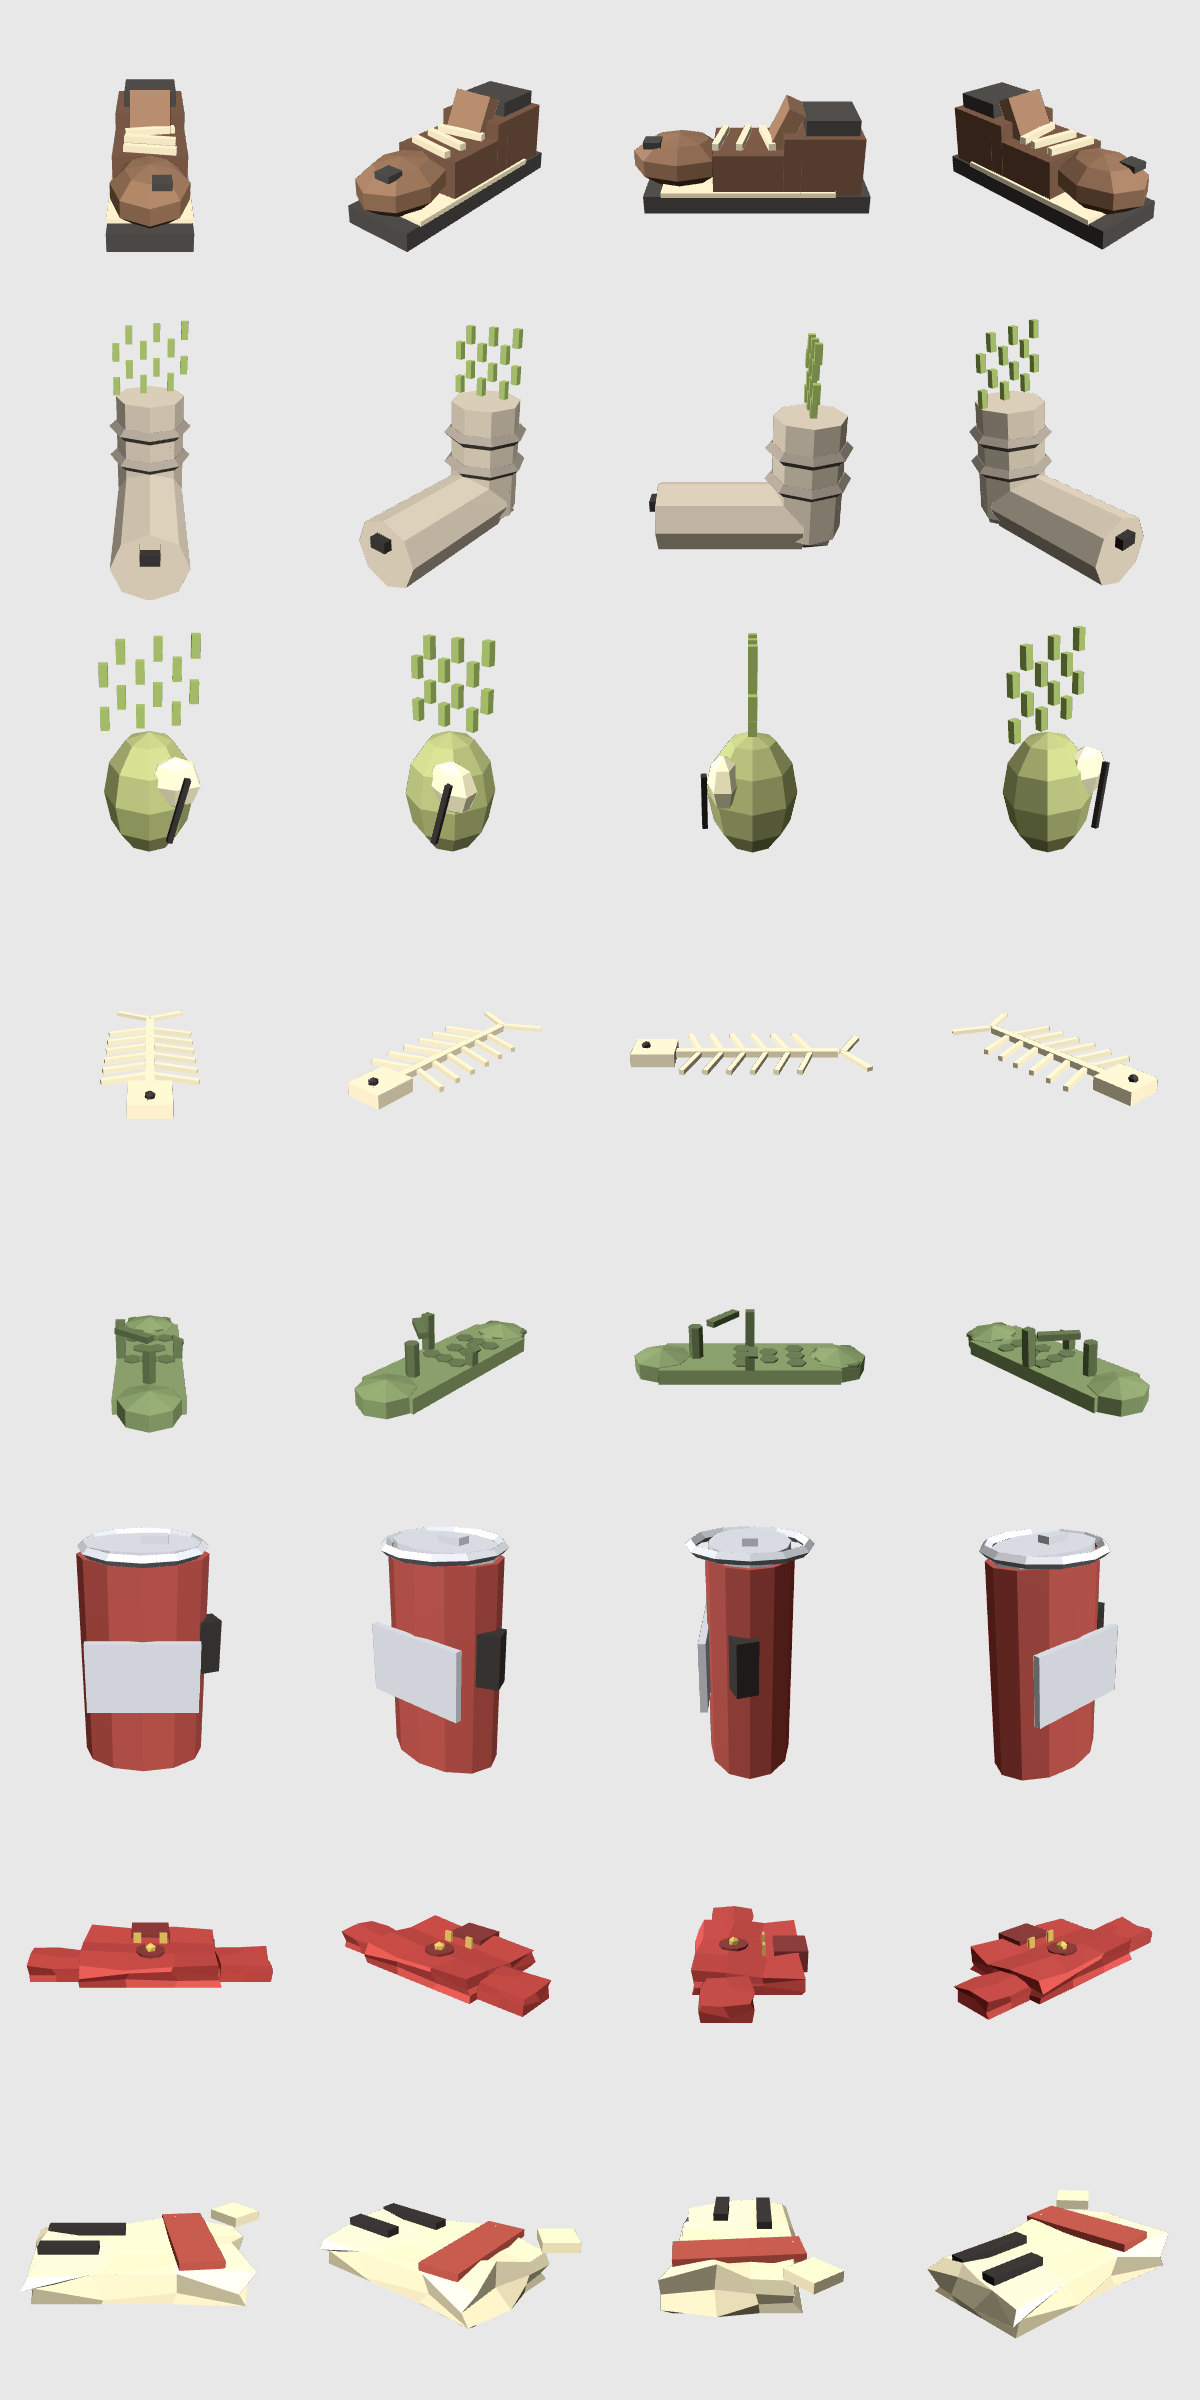
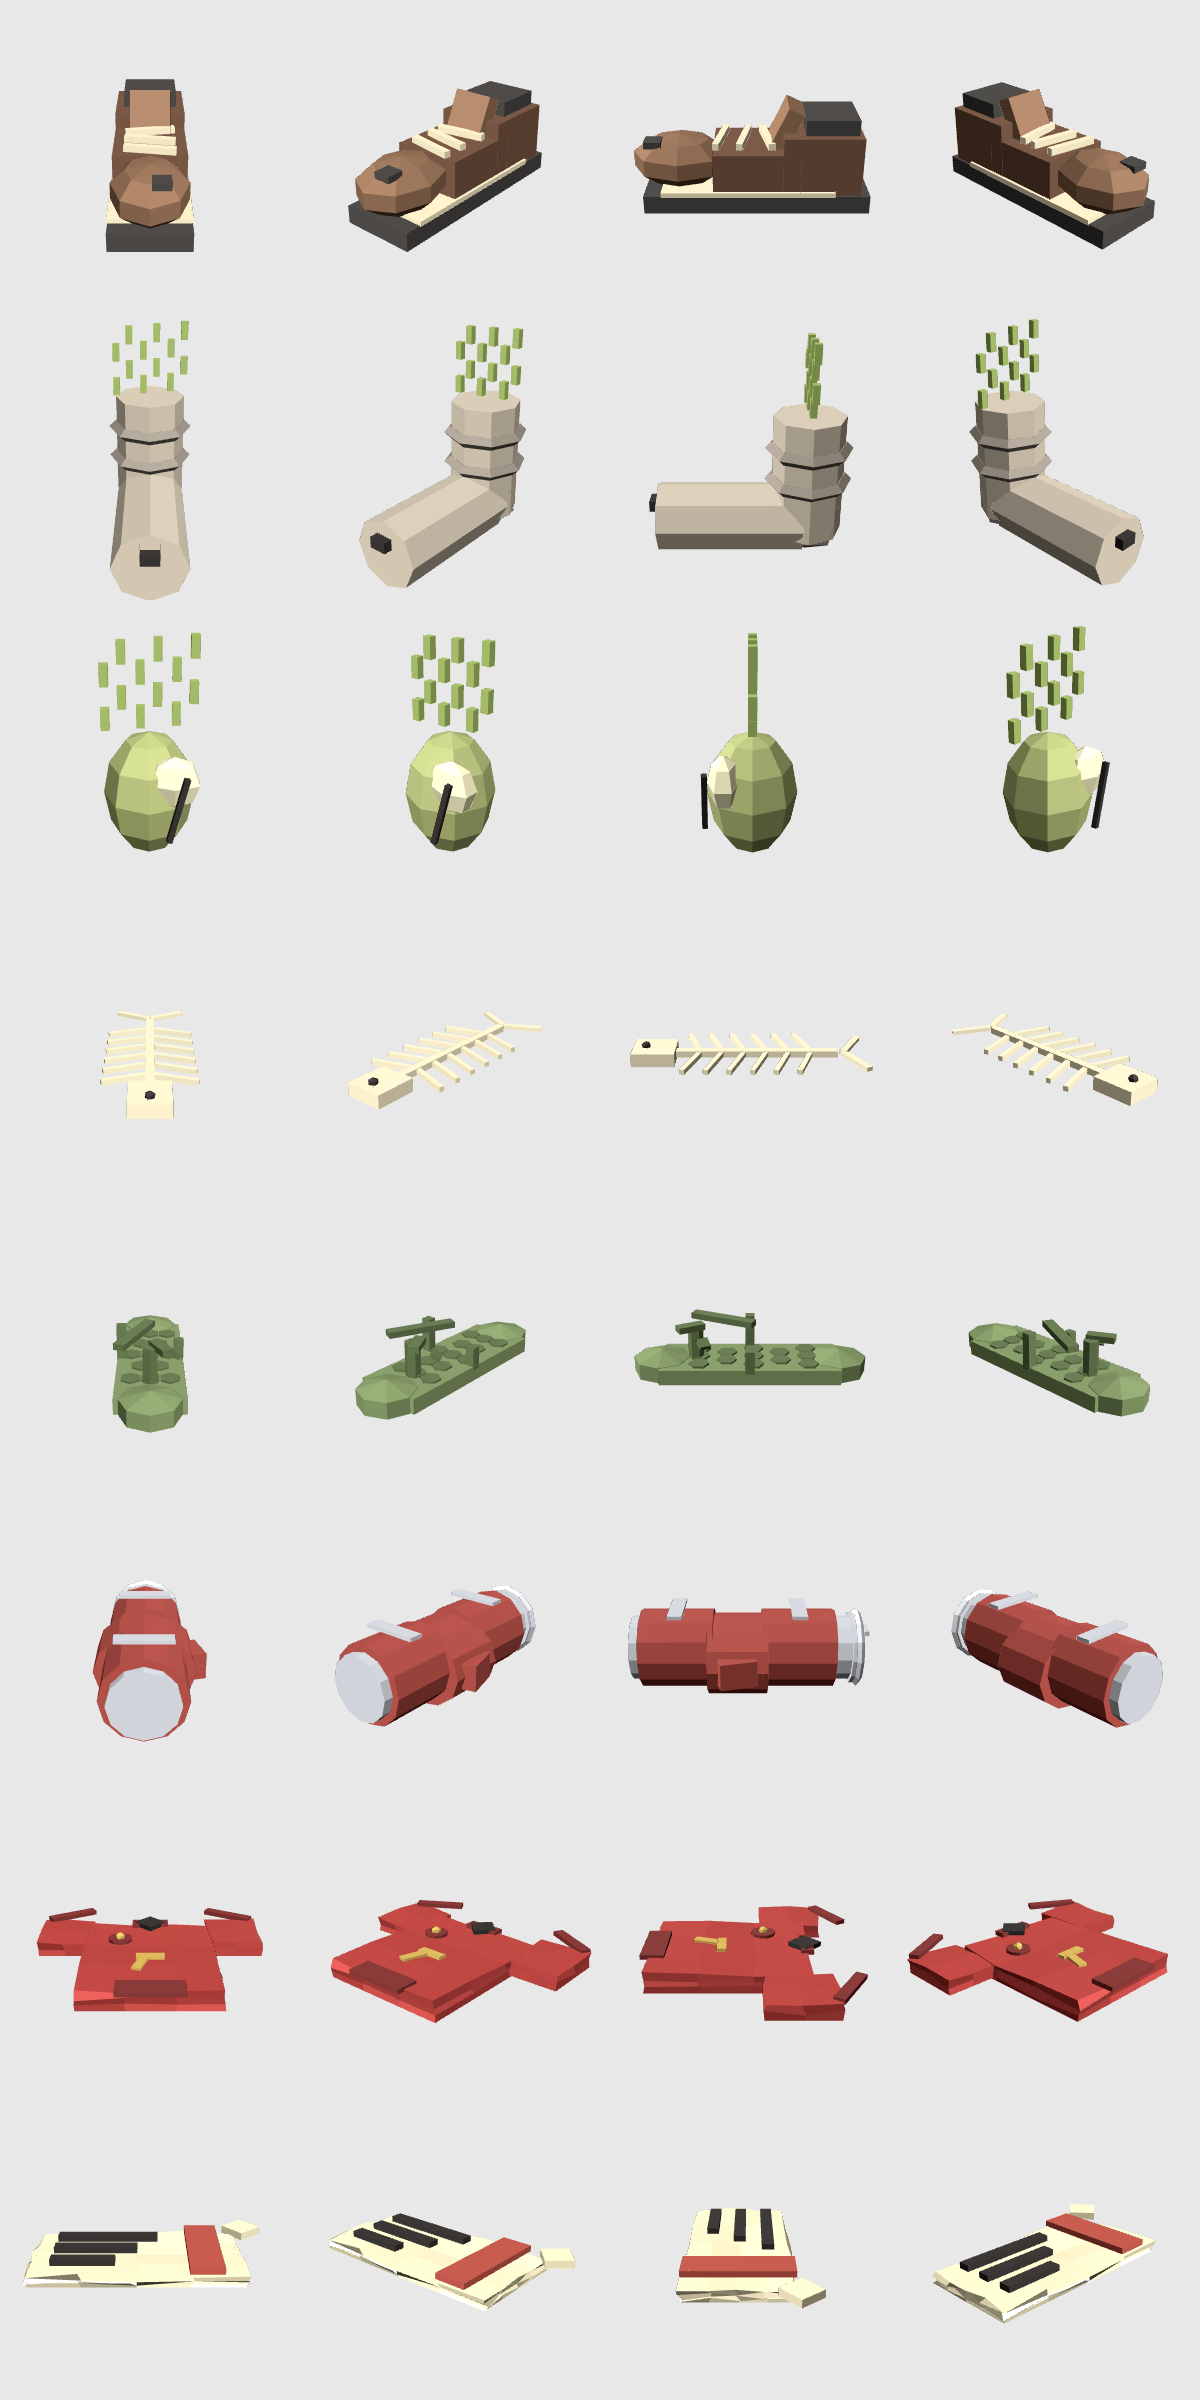
art: make the junk items easier to recognise (can, shirt, ticket, sandal)
Claude-Session: https://claude.ai/code/session_01QKQCdZrLAmYuhynD5rorbZ

diff --git a/Tools/Blender/make_items_lowpoly.py b/Tools/Blender/make_items_lowpoly.py
@@ -187,53 +187,62 @@ def build_r04():   # xương cá
     return p
 
 
-def build_r05():   # dép tổ ong cụt quai
+def build_r05():   # dép tổ ong cụt quai: green rubber sandal, V-shaped thong with one strap snapped
     p = [box((0.085, 0.23, 0.02), (0, 0.0, 0.01), "rubber"),
          uvs(0.0425, (0, -0.115, 0.01), "rubber", seg=8, rings=3, scale=(1, 1, 0.5)),
          uvs(0.0425, (0, 0.115, 0.01), "rubber", seg=8, rings=3, scale=(1, 1, 0.5)),
-         cyl(0.009, 0.045, (0, -0.07, 0.04), "rubber_dk", verts=6),                              # toe post
-         box((0.012, 0.012, 0.05), (-0.037, 0.0, 0.045), "rubber_dk"),                           # left strap post
-         box((0.052, 0.012, 0.008), (-0.019, -0.035, 0.066), "rubber_dk", rot=(0, 0, D(-38))),   # left strap
-         box((0.012, 0.012, 0.02), (0.037, 0.0, 0.03), "rubber_dk"),                             # right strap: snapped stub
-         box((0.016, 0.012, 0.004), (0.037, 0.004, 0.042), "rubber_dk", rot=(0, D(25), 0))]
-    for r, y in enumerate((-0.07, -0.035, 0.0, 0.035, 0.07)):                                      # honeycomb dents
-        for x in ((-0.022, 0.0, 0.022) if r % 2 == 0 else (-0.011, 0.011)):
-            p.append(cyl(0.012, 0.004, (x, y + 0.06, 0.02), "rubber_dk", verts=6))
+         cyl(0.01, 0.05, (0, -0.07, 0.04), "rubber_dk", verts=6),                                  # toe post
+         box((0.012, 0.012, 0.05), (-0.037, 0.0, 0.04), "rubber_dk"),                              # left strap anchor
+         box((0.012, 0.012, 0.03), (0.037, 0.0, 0.03), "rubber_dk"),                               # right strap anchor
+         box((0.014, 0.088, 0.008), (-0.0185, -0.035, 0.066), "rubber_dk", rot=(0, 0, D(-25))),    # left strap, intact
+         box((0.014, 0.035, 0.008), (0.012, -0.075, 0.066), "rubber_dk", rot=(0, 0, D(28))),       # right strap, snapped short
+         box((0.014, 0.014, 0.006), (0.027, -0.058, 0.05), "rubber_dk", rot=(0, D(30), D(28)))]   # torn tail
+    for r, y in enumerate((-0.075, -0.04, -0.005, 0.03, 0.065, 0.1)):                              # honeycomb dents
+        for x in ((-0.024, 0.0, 0.024) if r % 2 == 0 else (-0.012, 0.012)):
+            p.append(cyl(0.013, 0.005, (x, y + 0.01, 0.02), "rubber_dk", verts=6))
+    return p
+
+def build_r06():   # lon nước ngọt bẹp: a can lying on its side with a crushed middle
+    p = [cyl(0.033, 0.06, (0, -0.05, 0.035), "can_red", verts=12, rot=(R90, 0, 0)),                      # intact bottom half
+         cyl(0.033, 0.07, (0, 0.0, 0.03), "can_red", verts=12, rot=(R90, 0, 0), scale=(1.25, 1, 0.7)),     # crushed middle (overlaps both halves)
+         cyl(0.033, 0.06, (0, 0.05, 0.035), "can_red", verts=12, rot=(R90, 0, 0)),                        # top half
+         cyl(0.027, 0.012, (0, 0.087, 0.035), "can_sil", verts=12, rot=(R90, 0, 0)),                      # silver neck
+         cyl(0.03, 0.006, (0, 0.096, 0.035), "can_sil", verts=12, rot=(R90, 0, 0)),
+         torus(0.03, 0.003, (0, 0.099, 0.035), "can_sil", rot=(R90, 0, 0), seg=12),
+         box((0.016, 0.012, 0.004), (0.004, 0.102, 0.052), "can_sil"),                                   # pull tab
+         cyl(0.027, 0.01, (0, -0.083, 0.035), "can_sil", verts=12, rot=(R90, 0, 0)),                      # bottom rim
+         box((0.012, 0.03, 0.022), (0.04, 0.0, 0.03), "can_red", rot=(0, 0, D(15))),                      # dent bulge
+         box((0.045, 0.012, 0.003), (0, -0.05, 0.0695), "can_sil"),                                       # white label stripe sits on the can
+         box((0.045, 0.012, 0.003), (0, 0.05, 0.0695), "can_sil")]
     return p
 
 
-def build_r06():   # lon nước ngọt bẹp
-    p = [cyl(0.033, 0.12, (0, 0, 0.06), "can_red", verts=12, scale=(1.05, 0.72, 1)),
-         cyl(0.03, 0.006, (0, 0, 0.123), "can_sil", verts=12, scale=(1.05, 0.72, 1)),
-         torus(0.031, 0.003, (0, 0, 0.124), "can_sil", seg=12),
-         box((0.014, 0.008, 0.004), (0.006, 0, 0.128), "can_sil"),                               # pull tab
-         box((0.03, 0.012, 0.03), (0.026, -0.006, 0.07), "ink", rot=(0, 0, D(20))),              # dent
-         box((0.06, 0.004, 0.04), (0, -0.0245, 0.06), "can_sil")]                                # label
+def build_r07():   # áo đấu cũ của đội nhại: a T-shirt lying flat so it reads as a shirt
+    p = [lumpy((0.17, 0.2, 0.024), (0, 0.0, 0.012), "jersey", 2, 0.003, 5),
+         lumpy((0.07, 0.085, 0.02), (0.115, 0.085, 0.012), "jersey", 1, 0.003, 6, ),
+         lumpy((0.07, 0.085, 0.02), (-0.115, 0.085, 0.012), "jersey", 1, 0.003, 7),
+         box((0.08, 0.03, 0.006), (0, -0.095, 0.026), "jersey_dk"),                                   # hem
+         box((0.07, 0.014, 0.006), (0.115, 0.14, 0.024), "jersey_dk", rot=(0, 0, D(-30))),             # sleeve cuffs
+         box((0.07, 0.014, 0.006), (-0.115, 0.14, 0.024), "jersey_dk", rot=(0, 0, D(30))),
+         box((0.05, 0.016, 0.006), (0, 0.1, 0.026), "jersey_dk"),                                      # collar
+         box((0.03, 0.03, 0.006), (0, 0.098, 0.027), "ink", rot=(0, 0, D(45))),                        # neck opening
+         cyl(0.016, 0.004, (-0.04, 0.045, 0.026), "jersey_dk", verts=10),                              # emblem
+         ico(0.007, (-0.04, 0.045, 0.029), "gold"),
+         box((0.016, 0.004, 0.032), (-0.01, -0.02, 0.026), "gold", rot=(D(0), 0, 0)),                  # number 7
+         box((0.032, 0.004, 0.012), (0.006, -0.002, 0.026), "gold")]
+    p[-2] = box((0.012, 0.034, 0.004), (-0.012, -0.03, 0.026), "gold", rot=(0, 0, D(-18)))
+    p[-1] = box((0.036, 0.012, 0.004), (0.0, -0.01, 0.026), "gold")
+    return p
+
+def build_r08():   # vé cược nhàu: a ticket with a red band, text lines and a torn corner
+    p = [lumpy((0.1, 0.05, 0.006), (0, 0, 0.004), "ticket", 3, 0.0015, 9),
+         box((0.016, 0.052, 0.003), (0.032, 0, 0.0095), "ticket_red"),
+         box((0.05, 0.006, 0.003), (-0.015, 0.014, 0.0095), "ink"), box((0.04, 0.006, 0.003), (-0.02, 0.0, 0.0095), "ink"),
+         box((0.03, 0.006, 0.003), (-0.025, -0.014, 0.0095), "ink"),
+         box((0.014, 0.014, 0.004), (0.054, 0.027, 0.008), "ticket", rot=(0, 0, D(40)))]               # torn-off corner
     return p
 
 
-def build_r07():   # áo đấu cũ của đội nhại
-    p = [lumpy((0.2, 0.15, 0.03), (0, 0, 0.015), "jersey", 2, 0.006, 5),
-         lumpy((0.075, 0.065, 0.026), (0.135, -0.025, 0.013), "jersey", 1, 0.005, 6),
-         lumpy((0.075, 0.065, 0.026), (-0.135, -0.025, 0.013), "jersey", 1, 0.005, 7),
-         box((0.06, 0.05, 0.034), (0, 0.065, 0.017), "jersey_dk"),                              # collar
-         cyl(0.022, 0.004, (0, -0.02, 0.032), "jersey_dk", verts=10),                            # emblem
-         ico(0.009, (0, -0.02, 0.036), "gold"),
-         box((0.012, 0.004, 0.02), (-0.02, 0.025, 0.032), "gold"),                               # number
-         box((0.012, 0.004, 0.02), (0.02, 0.025, 0.032), "gold")]
-    return p
-
-
-def build_r08():   # vé cược nhàu
-    p = [lumpy((0.075, 0.045, 0.014), (0, 0, 0.007), "ticket", 2, 0.004, 9),
-         box((0.016, 0.047, 0.003), (0.02, 0, 0.0155), "ticket_red", rot=(0, 0, D(6))),
-         box((0.03, 0.006, 0.003), (-0.02, 0.01, 0.0155), "ink"),
-         box((0.022, 0.006, 0.003), (-0.025, -0.008, 0.0155), "ink"),
-         box((0.014, 0.014, 0.004), (0.04, 0.025, 0.016), "ticket", rot=(0, 0, D(40)))]       # torn corner
-    return p
-
-
-# ================================================================================================ COMMON (tier 1, simple)
 def build_v01():   # bình sứ men xanh
     p = [cyl(0.04, 0.014, (0, 0, 0.007), "glaze_dk", verts=12),
          uvs(0.07, (0, 0, 0.085), "glaze", seg=14, rings=8, scale=(1, 1, 1.15)),
